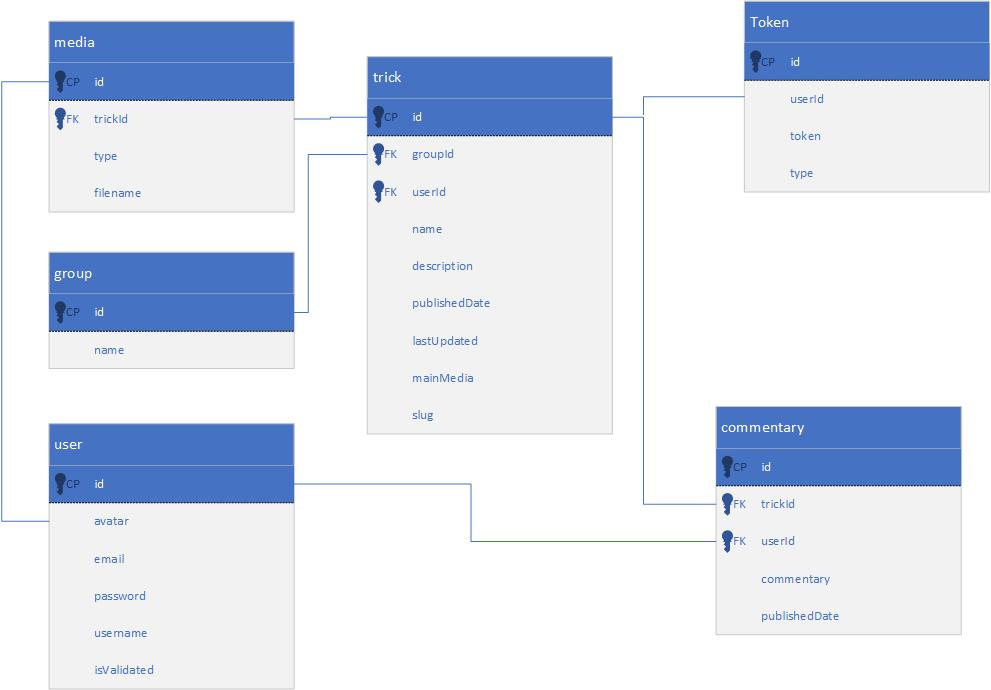
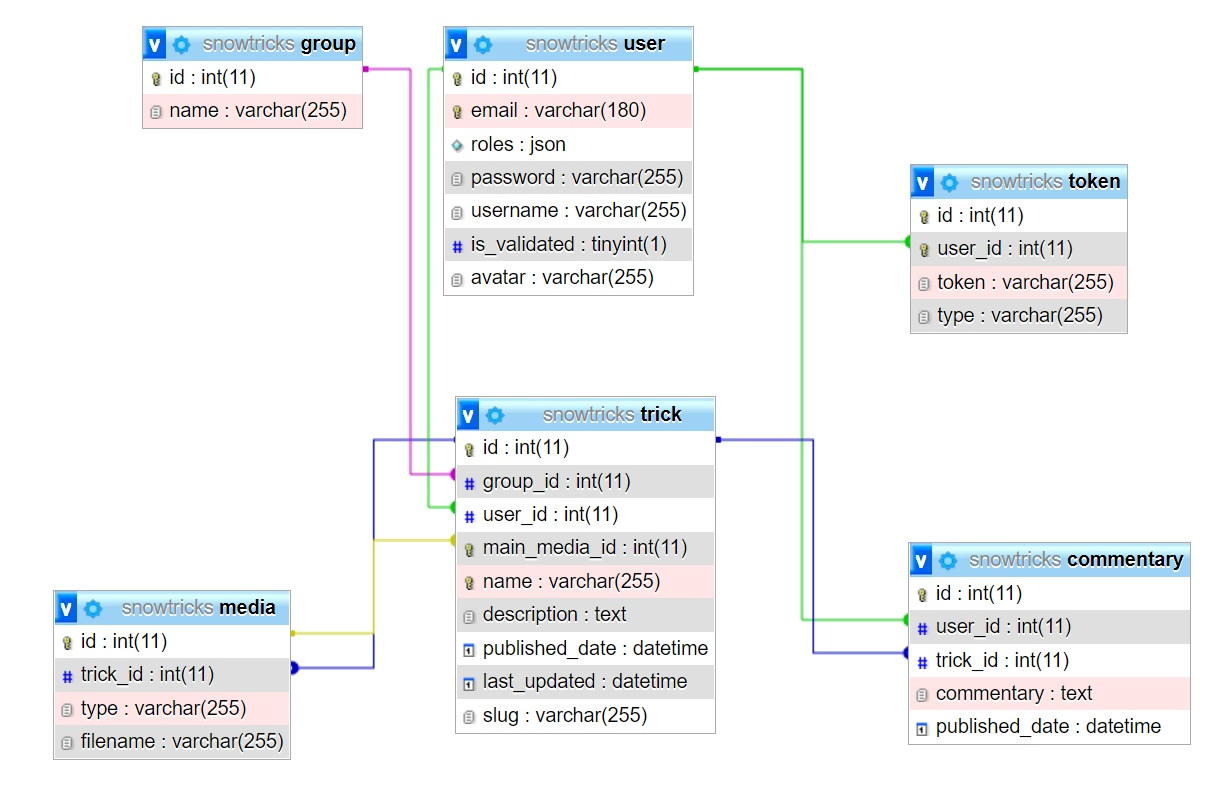
Merge pull request #77 from K0n3k:K0n3k/issue1 Minor correction Data Model Add classes Diagram

diff --git a/README.md b/README.md
@@ -12,3 +12,12 @@ Snowtricks is a communautary website from openclassrooms formation (App dev PHP/
 -  [@K0n3k](https://github.com/K0n3k/)
 
 ## Pre-require
+- Mysql database
+
+## Use this app
+-  modify your .env file 
+``` 
+DATABASE_URL=Your_database_url
+MAILER_DSN= Your_smtp_server
+MAIL_FROM= Your_email_address
+
